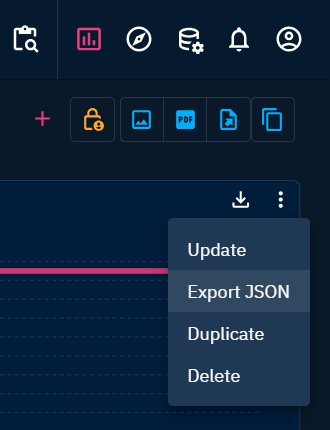
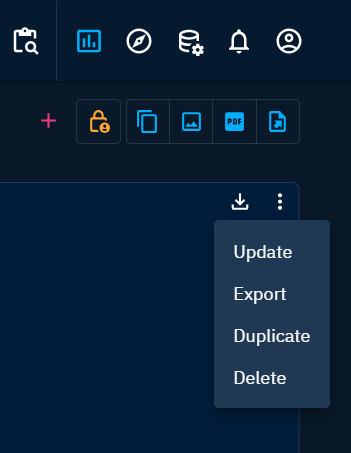
[docs] Export, import and duplicate custom dashboards and widgets configuration (issue/3242)

diff --git a/docs/usage/dashboards.md b/docs/usage/dashboards.md
@@ -32,23 +32,22 @@ Its title will be formatted like this:  `<date: year month day>_octi_dashboard_<
 
 ### Attributes of an export
 Here is the expected configuration file content:
-
+- for dashboards
 ```JSON
 {
   "openCTI_version": "5.12.0",
   "type": "dashboard",
-  "configuration": {
-    "manifest": "eyJ3aWRn(...)bmZpZyI6e319",
-    "name": "Hello Dashboard From Import"
-  }
+  "configuration": "eyJ3aWRn(...)bmZpZyI6e319"
 }
 ```
-
-When exporting a dashboard / widget configuration, all filters will be exported as are.
-Instance filters are based on your platform entities (internal ids).
-This means that after importing a configuration from another user's platform, you will have to manually edit the filters.
-
-Our team is currently working to manage instance filters.
+- for widgets
+```JSON
+{
+  "openCTI_version": "5.12.0",
+  "type": "widget",
+  "configuration": "eyJ0eXB(...)iOmZhbHNlfX0"
+}
+```
 
 #### Access
 
@@ -117,7 +116,7 @@ The new dashboard can be found in the dashboards list.
 ## Exporting widgets configuration
 
 Users can export a widget from the dashboard view.
-Click on the burger menu in the top right corner of the widget. Select the `Export JSON` option and save your widget configuration.
+Click on the burger menu in the top right corner of the widget. Select the `Export` option and save your widget configuration.
 
 ![export-widget-json-option](assets/export-widget-json-option.png)  
 *Export JSON option for widgets*
@@ -125,7 +124,7 @@ Click on the burger menu in the top right corner of the widget. Select the `Expo
 ## Importing widgets configuration
 
 Users can import a widget from the dashboard view.
-Click on the burger menu in the top right corner of the widget. Select the `Export JSON` option and save your widget configuration.
+Click on the burger menu in the top right corner of the widget. Select the `Export` option and save your widget configuration.
 
 Hover the `Add` button (+) in the right bottom corner.
 Click on the `Import dashboard` button (cloud with an upward arrow).
